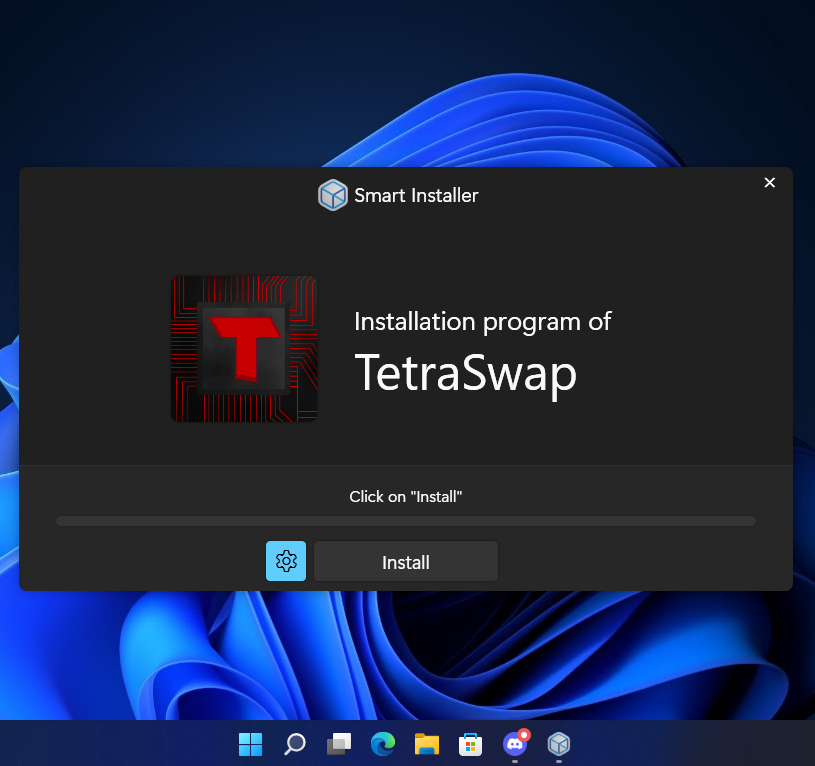
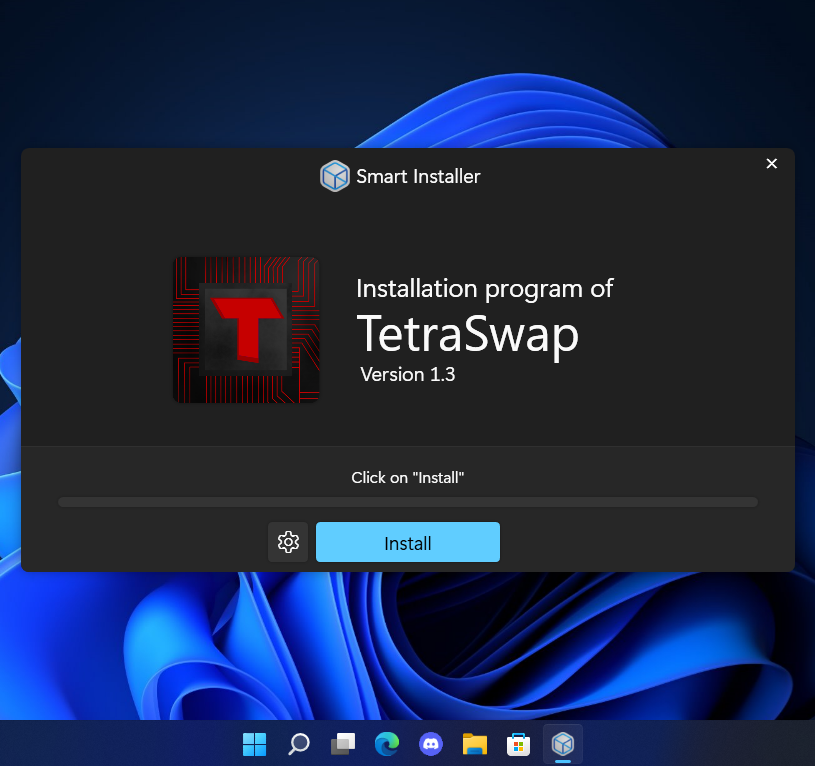
2.1
- Changed main button color
- Displays now application version

diff --git a/SmartInstaller/MainWindow.xaml b/SmartInstaller/MainWindow.xaml
@@ -68,17 +68,17 @@
                         <DropShadowEffect BlurRadius="6" ShadowDepth="0" Opacity="0.4" Direction="225" />
                     </Image.Effect>
                 </Image>
-                <Label Foreground="{Binding ForegroundColorBrush}" Content="Installation program of" FontFamily="./#Segoe UI Variable Display" FontSize="26" FontWeight="Normal" VerticalAlignment="Center" HorizontalAlignment="Left" Margin="330,0,0,120" />
-                <Label Foreground="{Binding ForegroundColorBrush}" x:Name="title" Content="ApplicationName"  VerticalAlignment="Center" HorizontalAlignment="Left"  FontSize="50" Margin="330,0,0,20"  />
+                <Label Foreground="{Binding ForegroundColorBrush}" Content="Installation program of" FontFamily="./#Segoe UI Variable Display" FontSize="26" FontWeight="Normal" VerticalAlignment="Top" HorizontalAlignment="Left" Margin="330,116,0,0" />
+                <Label Foreground="{Binding ForegroundColorBrush}" x:Name="title" Content="ApplicationName"  VerticalAlignment="Top" HorizontalAlignment="Left"  FontSize="50" Margin="330,144,0,0"  />
                 <Rectangle Fill="{Binding SeparatorColorBrush}" Margin="0,0,0,125" Height="1" VerticalAlignment="Bottom" />
                 <Border Background="{Binding SecondBackgroundColorBrush}" BorderThickness="0" BorderBrush="Transparent" CornerRadius="0,0,8,8" VerticalAlignment="Bottom" Height="125">
                     <Grid>
                         <Label x:Name="txt" FontFamily="./#Segoe UI Variable Display" Content="Click on &quot;Install&quot;" Foreground="{Binding ForegroundColorBrush}" VerticalAlignment="Bottom" HorizontalContentAlignment="Center" FontSize="16" FontWeight="Normal" Margin="0,0,0,80" />
                         <ProgressBar x:Name="pb" Width="700" Height="10" Minimum="0" Maximum="200" VerticalAlignment="Bottom" HorizontalAlignment="Center" Margin="0,0,0,65" />
-                        <Button Content="Install" FontFamily="./#Segoe UI Variable Display" Click="btnDownload_Click" HorizontalAlignment="Center" VerticalAlignment="Bottom" Height="40" Width="184" FontSize="19"  Foreground="{Binding ForegroundColorBrush}" Margin="10">
+                        <Button Content="Install" FontFamily="./#Segoe UI Variable Display" Click="btnDownload_Click" HorizontalAlignment="Center" VerticalAlignment="Bottom" Height="40" Width="184" FontSize="19"  Foreground="{Binding ButtonContrastColorBrush}" Margin="10">
                             <Button.Style>
                                 <Style TargetType="{x:Type Button}">
-                                    <Setter Property="Background" Value="{Binding ButtonBackgroundColorBrush}"/>
+                                    <Setter Property="Background" Value="{Binding AccentColorBrush}"/>
                                     <Setter Property="Template">
                                         <Setter.Value>
                                             <ControlTemplate TargetType="{x:Type Button}">
@@ -93,16 +93,16 @@
                                     </Setter>
                                     <Style.Triggers>
                                         <Trigger Property="IsMouseOver" Value="True">
-                                            <Setter Property="Background" Value="{Binding SeparatorColorBrush}"/>
+                                            <Setter Property="Opacity" Value="0.9"/>
                                         </Trigger>
                                     </Style.Triggers>
                                 </Style>
                             </Button.Style>
                         </Button>
-                        <Button Name="settingsButton" Click="settingsButton_Click" HorizontalAlignment="Center" VerticalAlignment="Bottom" Height="40" Width="40" FontSize="19"  Foreground="{Binding ButtonContrastColorBrush}" Margin="0,0,240,10">
+                        <Button Name="settingsButton" Click="settingsButton_Click" HorizontalAlignment="Center" VerticalAlignment="Bottom" Height="40" Width="40" FontSize="19" Foreground="{Binding ForegroundColorBrush}" Margin="0,0,240,10">
                             <Button.Style>
                                 <Style TargetType="{x:Type Button}">
-                                    <Setter Property="Background" Value="{Binding AccentColorBrush}"/>
+                                    <Setter Property="Background" Value="{Binding ButtonBackgroundColorBrush}"/>
                                     <Setter Property="Template">
                                         <Setter.Value>
                                             <ControlTemplate TargetType="{x:Type Button}">
@@ -117,7 +117,7 @@
                                     </Setter>
                                     <Style.Triggers>
                                         <Trigger Property="IsMouseOver" Value="True">
-                                            <Setter Property="Opacity" Value="0.9"/>
+                                            <Setter Property="Background" Value="{Binding SeparatorColorBrush}"/>
                                         </Trigger>
                                     </Style.Triggers>
                                 </Style>
@@ -127,6 +127,7 @@
                         </Button>
                     </Grid>
                 </Border>
+                <Label Name="version" Foreground="{Binding ForegroundColorBrush}" Content="Version 1.0" FontFamily="./#Segoe UI Variable Display" FontSize="20" FontWeight="Normal" VerticalAlignment="Top" HorizontalAlignment="Center" Margin="0,206,0,0" />
             </Grid>
         </Border>
     </Grid>

diff --git a/SmartInstaller/MainWindow.xaml.cs b/SmartInstaller/MainWindow.xaml.cs
@@ -63,6 +63,7 @@ namespace SmartInstaller
 
             ApplicationName = _programData.Name;
             title.Content = ApplicationName;
+            version.Content = "Version " + _programData.VersionName;
             Progress = 0;
             ProgressMessage = "Click on \"Install\"";
             txt.Content = ProgressMessage;
